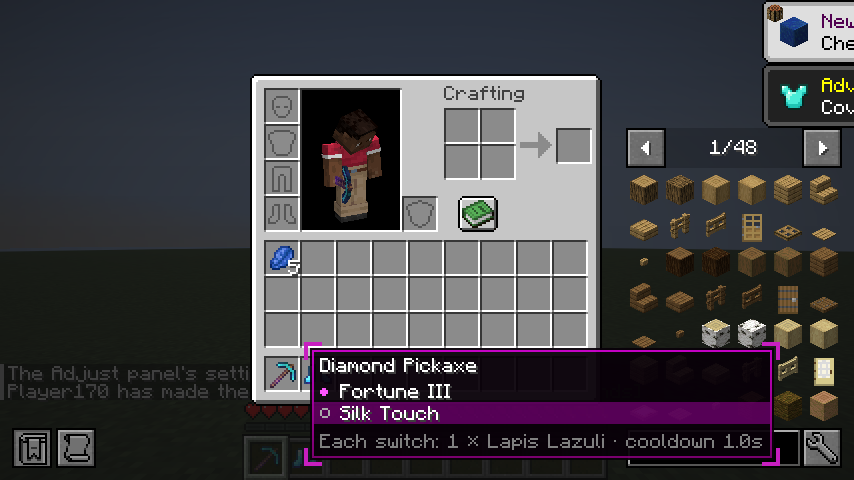
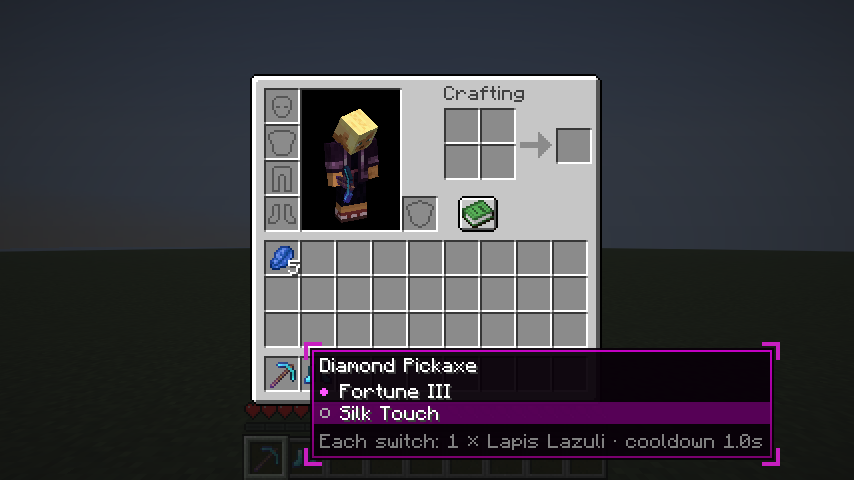
test: keep chat and toasts out of the client test screenshots
The docs use them; update the docs screenshots to show the new tooltip.

Claude-Session: https://claude.ai/code/session_01WTFPyDM6YGL5Fv8Mfv4d3u

diff --git a/fabric/src/main/java/io/github/safetimamovic/adjustability/gametest/AdjustPanelClientGameTest.java b/fabric/src/main/java/io/github/safetimamovic/adjustability/gametest/AdjustPanelClientGameTest.java
@@ -69,6 +69,7 @@ public class AdjustPanelClientGameTest implements FabricClientGameTest
                         context.waitForScreen(InventoryScreen.class);
                         hoverSlot(context, HOTBAR_0);
                         context.waitTick();
+                        cleanScreen(context);
                         context.takeScreenshot("adjustability_1_tooltip");
 
                         context.getInput().pressKey(AdjustKeys.ADJUST);
@@ -90,6 +91,7 @@ public class AdjustPanelClientGameTest implements FabricClientGameTest
                         });
                         moveTo(context, row[0], row[1]);
                         context.waitTick();
+                        cleanScreen(context);
                         context.takeScreenshot("adjustability_3_hover_row");
                         context.getInput().pressMouse(InputConstants.MOUSE_BUTTON_LEFT);
                         world.getConnection().waitForServerboundPackets();
@@ -344,6 +346,17 @@ public class AdjustPanelClientGameTest implements FabricClientGameTest
         {
                 return PlayerConfig.PANEL_SETTINGS.stream().filter(value -> PlayerConfig.name(value).equals(name))
                         .findFirst().map(PlayerConfig::current).orElseThrow();
+        }
+
+        /** No chat lines or toasts (command feedback, advancements) in the screenshots the docs use. */
+        private static void cleanScreen(ClientGameTestContext context)
+        {
+                context.runOnClient(minecraft ->
+                {
+                        minecraft.gui.hud.getChat().clearMessages(false);
+                        minecraft.gui.toastManager().clear();
+                });
+                context.waitTick();
         }
 
         /** Runs an {@code /adjustability} client command as if typed in chat. */

diff --git a/docs/guide/compatibility.md b/docs/guide/compatibility.md
@@ -19,7 +19,7 @@ panel, the Cycle key, hold mode and the None row in a real game client.
 
 On NeoForge, only the server-side tests ran with these mods; NeoForge has no client test framework.
 
-![The Adjust panel next to a pickaxe, with JEI's item list on the right](/screenshots/adjust-panel.png)
+![The Adjust panel next to a pickaxe, with JEI's item list on the right](/screenshots/adjust-panel-jei.png)
 
 ## Known limits
 
